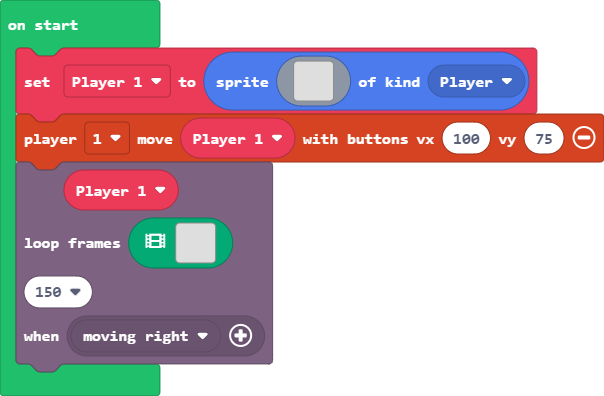
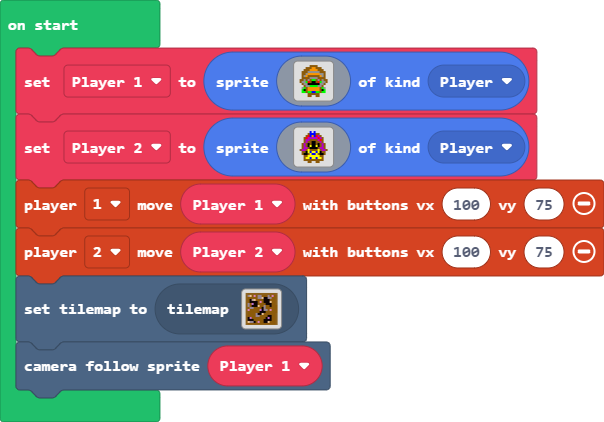
Update main.blocks, main.ts, tilemap.g.jres, tilemap.g.ts, images.g.jres, images.g.ts

diff --git a/tilemap.g.ts b/tilemap.g.ts
@@ -1,5 +1,39 @@
 // Auto-generated code. Do not edit.
 namespace myTiles {
+    //% fixedInstance jres blockIdentity=images._tile
+    export const transparency16 = image.ofBuffer(hex``);
+
+    helpers._registerFactory("tilemap", function(name: string) {
+        switch(helpers.stringTrim(name)) {
+            case "level1":
[1 lines of base64/hex data omitted]
+. . . . . . . . . . . . . . . . 
+. . . . . . . . . . . . . . . . 
+. . . . . . . . . . . . . . . . 
+. . . . . . . . . . . . . . . . 
+. . . . . . . . . . . . . . . . 
+. . . . . . . . . . . . . . . . 
+. . . . . . . . . . . . . . . . 
+. . . . . . . . . . . . . . . . 
+. . . . . . . . . . . . . . . . 
+. . . . . . . . . . . . . . . . 
+. . . . . . . . . . . . . . . . 
+. . . . . . . . . . . . . . . . 
+. . . . . . . . . . . . . . . . 
+. . . . . . . . . . . . . . . . 
+. . . . . . . . . . . . . . . . 
+. . . . . . . . . . . . . . . . 
+`, [myTiles.transparency16,sprites.castle.tileGrass2,sprites.builtin.oceanDepths4,sprites.castle.tilePath5,sprites.builtin.forestTiles0,sprites.castle.rock2,sprites.builtin.coral0,sprites.builtin.forestTiles6,sprites.builtin.forestTiles9,sprites.builtin.forestTiles14,sprites.builtin.forestTiles11,sprites.builtin.forestTiles7,sprites.builtin.forestTiles5,sprites.builtin.forestTiles13,sprites.builtin.forestTiles15,sprites.builtin.forestTiles10], TileScale.Sixteen);
+        }
+        return null;
+    })
+
+    helpers._registerFactory("tile", function(name: string) {
+        switch(helpers.stringTrim(name)) {
+            case "transparency16":return transparency16;
+        }
+        return null;
+    })
 
 }
 // Auto-generated code. Do not edit.

diff --git a/main.ts b/main.ts
@@ -1,42 +1,6 @@
-let Player_1 = sprites.create(img`
-    . . . . . . . . . . . . . . . . 
-    . . . . . . . . . . . . . . . . 
-    . . . . . . . . . . . . . . . . 
-    . . . . . . . . . . . . . . . . 
-    . . . . . . . . . . . . . . . . 
-    . . . . . . . . . . . . . . . . 
-    . . . . . . . . . . . . . . . . 
-    . . . . . . . . . . . . . . . . 
-    . . . . . . . . . . . . . . . . 
-    . . . . . . . . . . . . . . . . 
-    . . . . . . . . . . . . . . . . 
-    . . . . . . . . . . . . . . . . 
-    . . . . . . . . . . . . . . . . 
-    . . . . . . . . . . . . . . . . 
-    . . . . . . . . . . . . . . . . 
-    . . . . . . . . . . . . . . . . 
-    `, SpriteKind.Player)
+let Player_1 = sprites.create(assets.image`TESTCHARACTER1`, SpriteKind.Player)
+let Player_2 = sprites.create(assets.image`TESTCHARACTER2`, SpriteKind.Player)
 controller.player1.moveSprite(Player_1, 100, 75)
-characterAnimations.loopFrames(
-Player_1,
-[img`
-    . . . . . . . . . . . . . . . . 
-    . . . . . . . . . . . . . . . . 
-    . . . . . . . . . . . . . . . . 
-    . . . . . . . . . . . . . . . . 
-    . . . . . . . . . . . . . . . . 
-    . . . . . . . . . . . . . . . . 
-    . . . . . . . . . . . . . . . . 
-    . . . . . . . . . . . . . . . . 
-    . . . . . . . . . . . . . . . . 
-    . . . . . . . . . . . . . . . . 
-    . . . . . . . . . . . . . . . . 
-    . . . . . . . . . . . . . . . . 
-    . . . . . . . . . . . . . . . . 
-    . . . . . . . . . . . . . . . . 
-    . . . . . . . . . . . . . . . . 
-    . . . . . . . . . . . . . . . . 
-    `],
-150,
-characterAnimations.rule(Predicate.MovingRight)
-)
+controller.player2.moveSprite(Player_2, 100, 75)
+tiles.setCurrentTilemap(tilemap`level1`)
+scene.cameraFollowSprite(Player_1)

diff --git a/images.g.ts b/images.g.ts
@@ -3,7 +3,44 @@ namespace myImages {
 
     helpers._registerFactory("image", function(name: string) {
         switch(helpers.stringTrim(name)) {
-
+            case "image1":
+            case "TESTCHARACTER1":return img`
+. . . . . . f f f f . . . . . . 
+. . . . f f f 2 2 f f f . . . . 
+. . . f f f 2 2 2 2 f f f . . . 
+. . f f f e e e e e e f f f . . 
+. . f f e 2 2 2 2 2 2 e e f . . 
+. . f e 2 f f f f f f 2 e f . . 
+. . f f f f e e e e f f f f . . 
+. f f e f b f 4 4 f b f e f f . 
+. f e e 4 1 f d d f 1 4 e e f . 
+. . f e e d d d d d d e e f . . 
+. . . f e e 4 4 4 4 e e f . . . 
+. . e 4 f 2 2 2 2 2 2 f 4 e . . 
+. . 4 d f 2 2 2 2 2 2 f d 4 . . 
+. . 4 4 f 4 4 5 5 4 4 f 4 4 . . 
+. . . . . f f f f f f . . . . . 
+. . . . . f f . . f f . . . . . 
+`;
+            case "image2":
+            case "TESTCHARACTER2":return img`
+. . . . . . 5 . 5 . . . . . . . 
+. . . . . f 5 5 5 f f . . . . . 
+. . . . f 1 5 2 5 1 6 f . . . . 
+. . . f 1 6 6 6 6 6 1 6 f . . . 
+. . . f 6 6 f f f f 6 1 f . . . 
+. . . f 6 f f d d f f 6 f . . . 
+. . f 6 f d f d d f d f 6 f . . 
+. . f 6 f d 3 d d 3 d f 6 f . . 
+. . f 6 6 f d d d d f 6 6 f . . 
+. f 6 6 f 3 f f f f 3 f 6 6 f . 
+. . f f d 3 5 3 3 5 3 d f f . . 
+. . f d d f 3 5 5 3 f d d f . . 
+. . . f f 3 3 3 3 3 3 f f . . . 
+. . . f 3 3 5 3 3 5 3 3 f . . . 
+. . . f f f f f f f f f f . . . 
+. . . . . f f . . f f . . . . . 
+`;
         }
         return null;
     })
